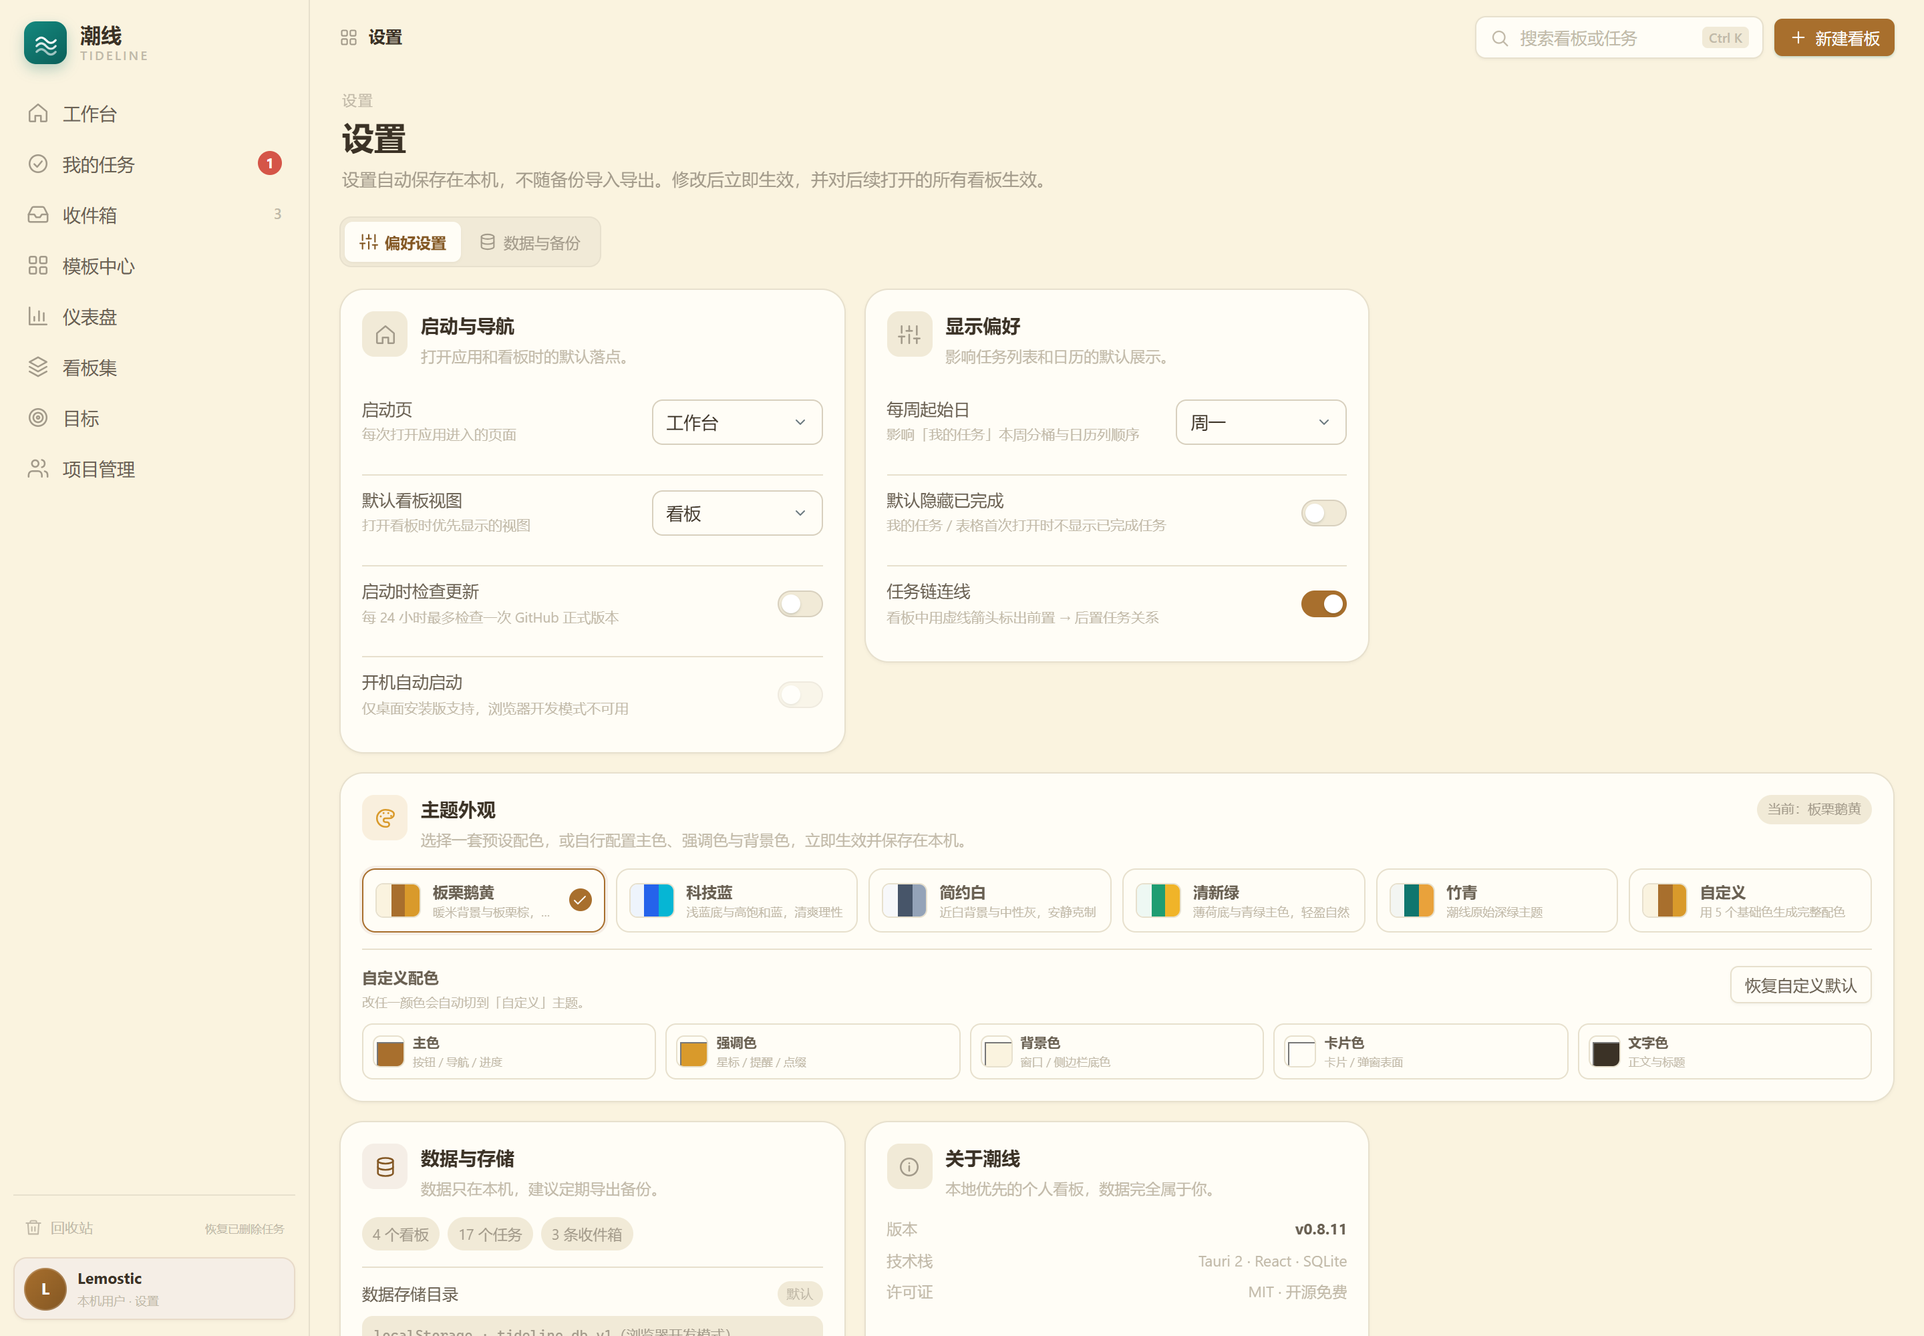
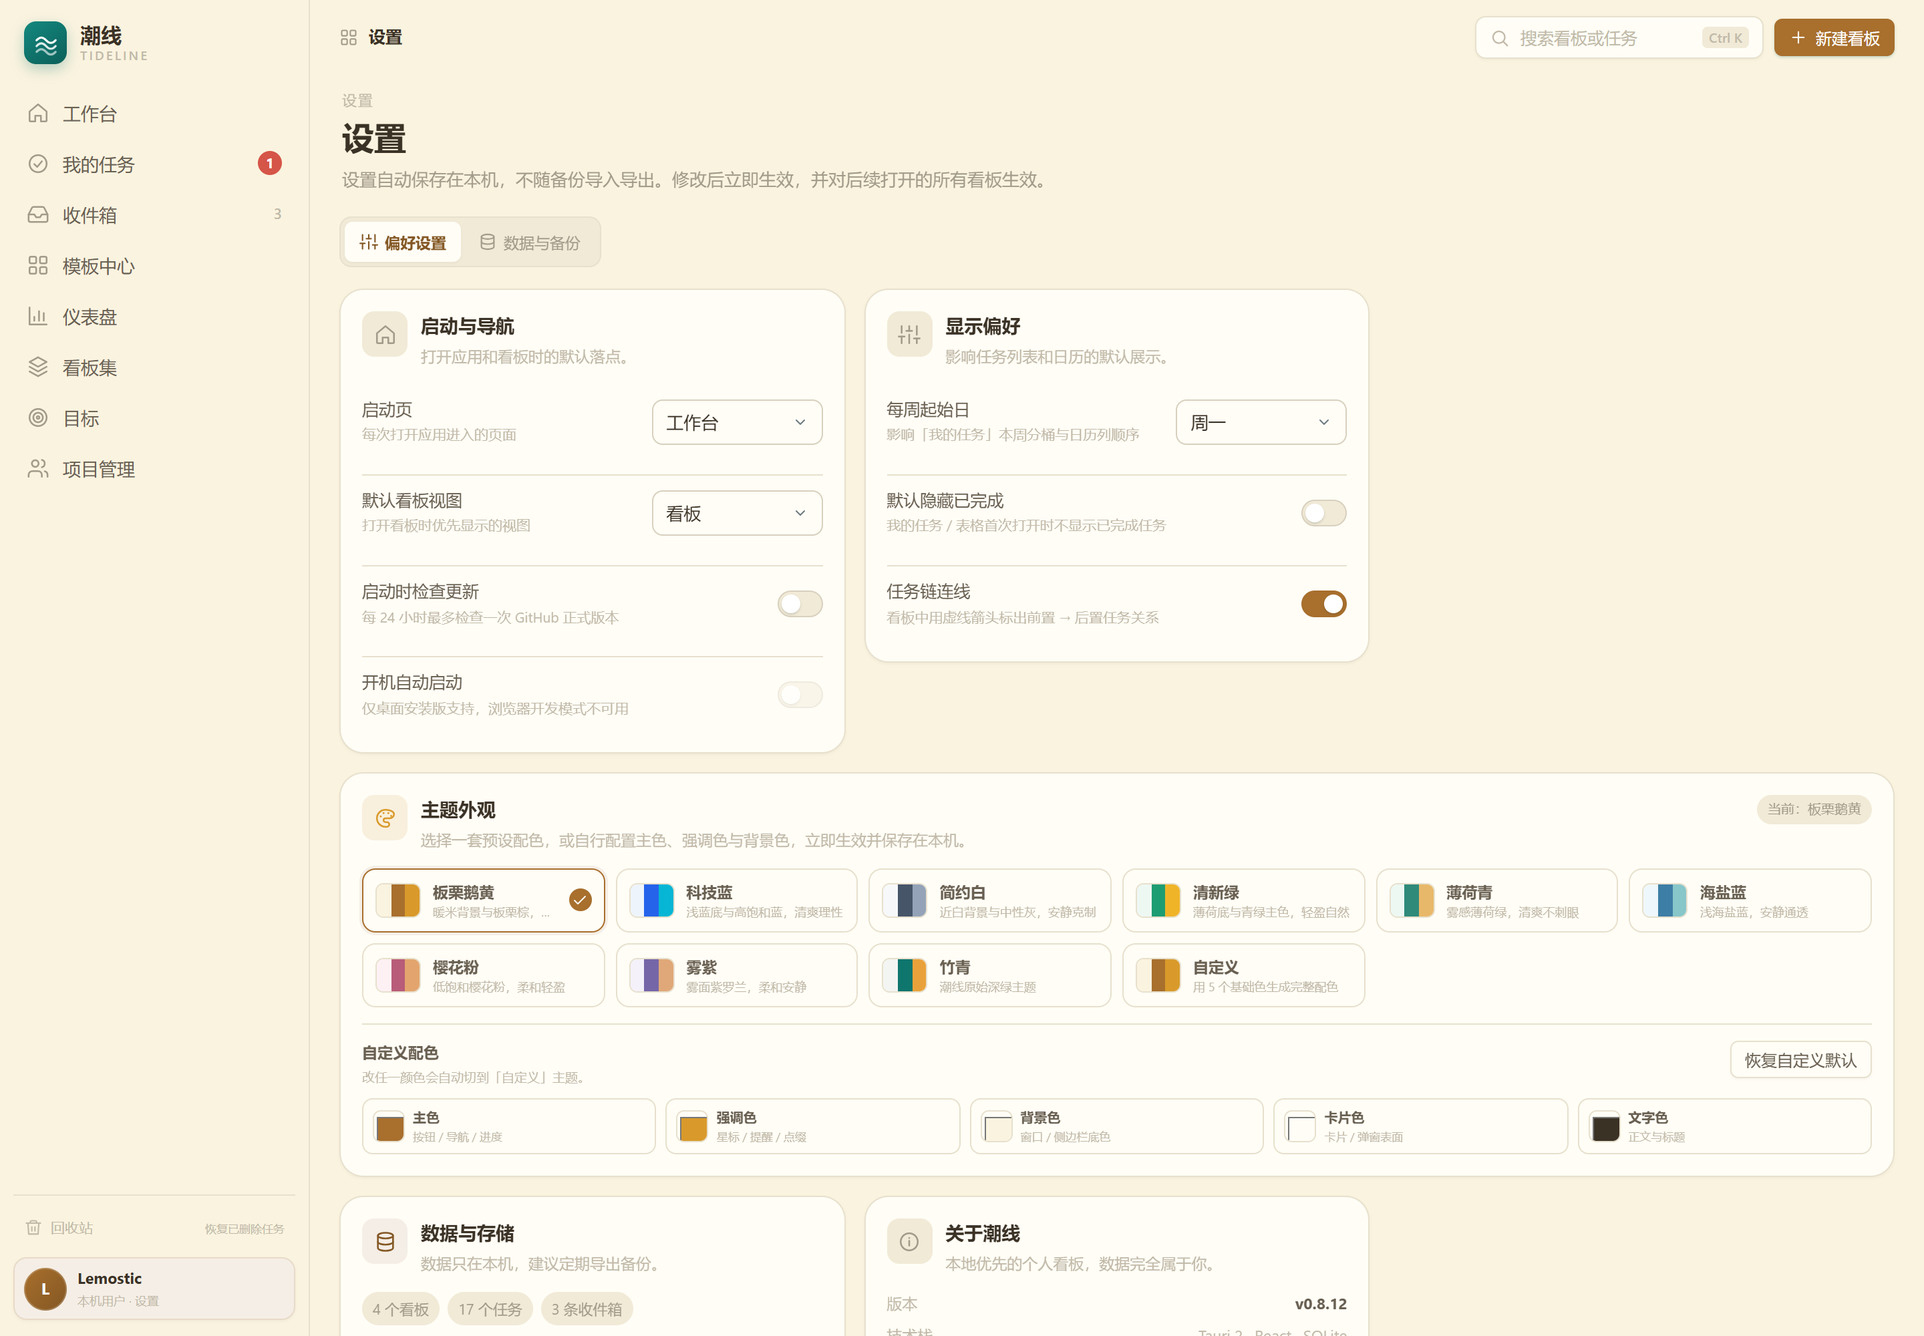
feat: V0.8.12 新增四套清新亮色主题
- 新增薄荷青、海盐蓝、樱花粉、雾紫四套低饱和亮色主题
- 内置主题从 5 套扩展至 9 套，全部由基础色自动派生柔和色/描边/阴影
- 主题面板自适应 9 套预设 + 自定义，保持即时切换与本地持久化
- 更新主题单元测试与 E2E，README/开发计划/五版本规划/截图
- 安装包验证 0.8.11 自定义路径升级、0.8.12 全新安装/启动/卸载

diff --git a/src/lib/theme.ts b/src/lib/theme.ts
@@ -6,7 +6,17 @@
  * 避免用户配置几十个令牌。
  */
 
-export type ThemeId = 'pine' | 'chestnut' | 'tech' | 'minimal' | 'fresh' | 'custom';
+export type ThemeId =
+  | 'pine'
+  | 'chestnut'
+  | 'tech'
+  | 'minimal'
+  | 'fresh'
+  | 'mint'
+  | 'seasalt'
+  | 'sakura'
+  | 'lavender'
+  | 'custom';
 
 export interface ThemeBaseColors {
   primary: string;
@@ -70,6 +80,54 @@ export const THEME_PRESETS: ThemePreset[] = [
       background: '#eef8f3',
       surface: '#ffffff',
       text: '#163a2c',
+    },
+  },
+  {
+    id: 'mint',
+    name: '薄荷青',
+    description: '雾感薄荷绿，清爽不刺眼',
+    colors: {
+      primary: '#2f8a7a',
+      accent: '#e8b86a',
+      background: '#edf8f3',
+      surface: '#ffffff',
+      text: '#1e3834',
+    },
+  },
+  {
+    id: 'seasalt',
+    name: '海盐蓝',
+    description: '浅海盐蓝，安静通透',
+    colors: {
+      primary: '#3d7ea6',
+      accent: '#87c6c9',
+      background: '#eef7fb',
+      surface: '#ffffff',
+      text: '#1b3440',
+    },
+  },
+  {
+    id: 'sakura',
+    name: '樱花粉',
+    description: '低饱和樱花粉，柔和轻盈',
+    colors: {
+      primary: '#b85c79',
+      accent: '#e3a56d',
+      background: '#fdf1f4',
+      surface: '#fffdfd',
+      text: '#3d2a31',
+    },
+  },
+  {
+    id: 'lavender',
+    name: '雾紫',
+    description: '雾面紫罗兰，柔和安静',
+    colors: {
+      primary: '#7566a8',
+      accent: '#e0a878',
+      background: '#f4f1fa',
+      surface: '#ffffff',
+      text: '#2b273b',
     },
   },
   {

diff --git a/src/lib/theme.test.ts b/src/lib/theme.test.ts
@@ -9,16 +9,21 @@ import {
 } from '@/lib/theme';
 
 describe('theme helpers', () => {
-  it('提供五套内置主题并默认板栗鹅黄', () => {
+  it('提供九套内置主题并默认板栗鹅黄', () => {
     expect(THEME_PRESETS.map((preset) => preset.name)).toEqual([
       '板栗鹅黄',
       '科技蓝',
       '简约白',
       '清新绿',
+      '薄荷青',
+      '海盐蓝',
+      '樱花粉',
+      '雾紫',
       '竹青',
     ]);
     expect(normalizeThemeId(undefined)).toBe('chestnut');
     expect(normalizeThemeId('tech')).toBe('tech');
+    expect(normalizeThemeId('mint')).toBe('mint');
     expect(normalizeThemeId('unknown')).toBe('chestnut');
   });
 

diff --git a/README.md b/README.md
@@ -26,7 +26,7 @@
 - **日历视图** —— 6×7 月历，按截止日期归格，今天高亮、周末底色、跨月淡化、「+N 更多」展开、显示已完成；支持把任务拖到别的日期改期
 - **回收站** —— 删除任务先软删除进回收站，可恢复回原看板/列表，或彻底删除 / 一键清空
 - **数据备份（设置内）** —— 设置页「数据与备份」标签：把全部看板、列表、任务（含回收站与任务依赖）、看板集、目标、收件箱、多项目投入记录导出为 JSON；从备份整体恢复前先校验文件结构/引用关系，单事务替换、失败回滚；桌面端写入「文档」目录；旧 `/data` 链接自动重定向
-- **主题外观** —— 内置板栗鹅黄、科技蓝、简约白、清新绿、竹青五套主题；一键切换立即生效并持久化；支持自定义主色/强调色/背景色/卡片色/文字色，自动派生完整设计令牌（默认板栗鹅黄）
+- **主题外观** —— 内置板栗鹅黄、科技蓝、简约白、清新绿、薄荷青、海盐蓝、樱花粉、雾紫、竹青九套主题；一键切换立即生效并持久化；支持自定义主色/强调色/背景色/卡片色/文字色，自动派生完整设计令牌（默认板栗鹅黄）
 - **设置管理** —— **左下角 Profile 卡片（头像 + 用户名）**打开设置，不再占用左侧菜单；全局偏好页：启动页、默认看板视图、每周起始日、默认隐藏已完成、**任务链连线开关**；**桌面端支持自定义数据存储目录**（原生文件夹选择、数据库自动迁移、可恢复默认）；数据备份并入设置页；偏好保存在本机 localStorage，数据目录配置写入 `storage.json`，即时生效，可一键恢复默认
 - **我的任务** —— 按「已逾期 / 今天到期 / 本周到期 / 稍后到期 / 无截止日期」自动分组，逾期红色计数，支持看板筛选、排序、隐藏已完成；**五列等宽自适应**，2K 下与看板泳道同宽（约 445px）
 - **收件箱** —— 快速记录想法（`Ctrl/Cmd + Enter`），一键转为指定看板的任务
@@ -37,7 +37,7 @@
 - **更新检查** —— 设置页可手动检查 GitHub 正式 Release，显示新版本、发布日期与说明，并一键打开发布页；可开启「启动时检查更新」（每 24 小时最多一次），发现新版本时顶栏显示提醒。**安装包签名完成前不静默下载安装**，始终由用户从发布页手动安装
 - **开机自动启动** —— 设置页可开启/关闭「开机自动启动」；桌面端写入当前用户 `HKCU\...\Run` 注册表，登录 Windows 后自动打开潮线，浏览器开发模式显示为不可用
 
-> 目标模块已完成；V0.4（任务依赖 / 备份 / 批量操作）、V0.5（仪表盘 / 看板集）、V0.6（目标 / 更新检查）、V0.7（看板个性化 / 工作台 / 双视图 / 开机启动）、V0.8.0（项目组资源）、V0.8.1（多项目 / 自定义角色 / 元数据）、V0.8.2（任务详情居中弹窗）、V0.8.3（多段投入记录）、V0.8.4（设置入口迁移 / 备份并入设置）、V0.8.5（主题系统）、V0.8.6（项目管理布局与命名）、V0.8.7（左下角 Profile 设置入口）、V0.8.8（任务详情紧凑表单）、V0.8.9（回收站降级为工具入口）、V0.8.10（移除冗余状态与按钮）、V0.8.11（甘特视图增强）均已交付。
+> 目标模块已完成；V0.4（任务依赖 / 备份 / 批量操作）、V0.5（仪表盘 / 看板集）、V0.6（目标 / 更新检查）、V0.7（看板个性化 / 工作台 / 双视图 / 开机启动）、V0.8.0（项目组资源）、V0.8.1（多项目 / 自定义角色 / 元数据）、V0.8.2（任务详情居中弹窗）、V0.8.3（多段投入记录）、V0.8.4（设置入口迁移 / 备份并入设置）、V0.8.5（主题系统）、V0.8.6（项目管理布局与命名）、V0.8.7（左下角 Profile 设置入口）、V0.8.8（任务详情紧凑表单）、V0.8.9（回收站降级为工具入口）、V0.8.10（移除冗余状态与按钮）、V0.8.11（甘特视图增强）、V0.8.12（新增四套清新亮色主题）均已交付。
 
 ### 界面预览
 
@@ -145,7 +145,7 @@
 
 ### 方式一：安装包（推荐）
 
-下载 `release/tideline-0.8.11-win64-setup.exe`，双击按向导安装即可（安装向导为简体中文）。
+下载 `release/tideline-0.8.12-win64-setup.exe`，双击按向导安装即可（安装向导为简体中文）。
 默认安装目录为 **`%LOCALAPPDATA%\Programs\Tideline`**（通常即 `C:\Users\<用户名>\AppData\Local\Programs\Tideline`；程序文件不再放进 Roaming 漫游目录），安装时仍可自选其它目录；
 **如果检测到旧版本，会自动带出旧版本的安装路径并默认覆盖安装，无需手动卸载旧版本**，升级后本地数据保持不变。
 安装器会创建开始菜单与桌面快捷方式，卸载可在「设置 → 应用」中完成。
@@ -158,7 +158,7 @@
 pnpm install
 pnpm tauri dev          # 桌面端开发模式
 pnpm tauri build --bundles nsis   # 打 NSIS 安装包
-# 产物：src-tauri/target/release/bundle/nsis/tideline_0.8.11_x64-setup.exe
+# 产物：src-tauri/target/release/bundle/nsis/tideline_0.8.12_x64-setup.exe
 ```
 
 浏览器里调试 UI（数据写 localStorage，与桌面端共用页面代码）：
@@ -229,7 +229,7 @@ pnpm tauri build --bundles nsis   # Windows NSIS 安装包
 | V0.1（已完成） | 看板 / 我的任务 / 收件箱 / 模板中心 / 本地 SQLite |
 | V0.2（已完成） | 任务抽屉增强（子任务/标签/Markdown/起止日期）、表格视图、甘特视图、旧库自动迁移 |
 | **V0.3 / V0.3.1 / V0.3.2 / V0.3.3 / V0.3.4 / V0.3.5 / V0.3.6 / V0.3.7 / V0.3.8 / V0.4.0（已完成）** | 日历视图、看板内筛选器、任务回收站、NSIS 安装包、v3 数据库迁移；持续补丁优化卡片/拖拽/弹窗/表格层级、安装路径、桌面端拖拽、宽屏列宽与各菜单主体铺满 |
-| **V0.4.1 / V0.4.2 / V0.5.0 / V0.5.1 / V0.5.2 / V0.5.3 / V0.5.4 / V0.5.5 / V0.6.0 / V0.6.1 / V0.7.0 / V0.7.1 / V0.7.2 / V0.7.3 / V0.8.0 / V0.8.1 / V0.8.2 / V0.8.3 / V0.8.4 / V0.8.5 / V0.8.6 / V0.8.7 / V0.8.8 / V0.8.9 / V0.8.10 / V0.8.11（当前）** | V0.4 收尾：任务依赖、看板内批量操作；设置管理（启动页 / 默认视图 / 每周起始日 / 默认隐藏已完成 / 自定义数据目录 / 任务链连线）；V0.5 仪表盘与看板集；V0.5.5 中文安装向导与旧路径自动沿用；V0.6.0 目标树与进度回写；V0.6.1 更新检查与顶栏提醒；V0.7.0 卡片颜色、列表颜色/WIP、安装器注册表安装目录；V0.7.1 工作台门户与依赖箭头方向；V0.7.2 工作台/看板卡片列表视图切换；V0.7.3 开机自动启动；V0.8.0 项目组资源与绩效；V0.8.1 多项目、自定义角色与项目元数据；V0.8.2 任务详情居中弹窗（4:3、独立滚动）；V0.8.3 多段投入记录与项目投入统计；V0.8.4 设置入口移至左下角齿轮，数据备份并入设置；V0.8.5 主题外观与自定义配色；V0.8.6 项目管理列表布局与菜单改名；V0.8.7 左下角 Profile 入口；V0.8.8 任务详情紧凑表单；V0.8.9 回收站移至侧边栏底部工具区；V0.8.10 移除冗余本机状态与按钮；V0.8.11 甘特进度/依赖/工期 |
+| **V0.4.1 / V0.4.2 / V0.5.0 / V0.5.1 / V0.5.2 / V0.5.3 / V0.5.4 / V0.5.5 / V0.6.0 / V0.6.1 / V0.7.0 / V0.7.1 / V0.7.2 / V0.7.3 / V0.8.0 / V0.8.1 / V0.8.2 / V0.8.3 / V0.8.4 / V0.8.5 / V0.8.6 / V0.8.7 / V0.8.8 / V0.8.9 / V0.8.10 / V0.8.11 / V0.8.12（当前）** | V0.4 收尾：任务依赖、看板内批量操作；设置管理（启动页 / 默认视图 / 每周起始日 / 默认隐藏已完成 / 自定义数据目录 / 任务链连线）；V0.5 仪表盘与看板集；V0.5.5 中文安装向导与旧路径自动沿用；V0.6.0 目标树与进度回写；V0.6.1 更新检查与顶栏提醒；V0.7.0 卡片颜色、列表颜色/WIP、安装器注册表安装目录；V0.7.1 工作台门户与依赖箭头方向；V0.7.2 工作台/看板卡片列表视图切换；V0.7.3 开机自动启动；V0.8.0 项目组资源与绩效；V0.8.1 多项目、自定义角色与项目元数据；V0.8.2 任务详情居中弹窗（4:3、独立滚动）；V0.8.3 多段投入记录与项目投入统计；V0.8.4 设置入口移至左下角齿轮，数据备份并入设置；V0.8.5 主题外观与自定义配色；V0.8.6 项目管理列表布局与菜单改名；V0.8.7 左下角 Profile 入口；V0.8.8 任务详情紧凑表单；V0.8.9 回收站移至侧边栏底部工具区；V0.8.10 移除冗余本机状态与按钮；V0.8.11 甘特进度/依赖/工期；V0.8.12 新增薄荷青/海盐蓝/樱花粉/雾紫主题 |
 | V0.4（已完成） | 任务依赖、JSON 导入/导出与备份入口、看板内批量操作 |
 | V0.5（已完成） | 仪表盘统计、看板集（多板汇总表） |
 | V0.6（已完成） | 目标、更新检查；静默自动安装与代码签名待证书 |
@@ -255,13 +255,14 @@ pnpm tauri build --bundles nsis   # Windows NSIS 安装包
 
 | 版本 | 变更 |
 | --- | --- |
+| V0.8.12 | 新增薄荷青、海盐蓝、樱花粉、雾紫四套低饱和清新亮色主题；内置主题由 5 套扩展至 9 套，全部自动派生柔和色、描边与阴影，切换即时生效并本地持久化 |
 | V0.8.11 | 甘特视图增强：任务条按子任务/完成状态显示进度与百分比；任务列显示起止日期、工期与逾期高亮；周视图日期头补星期；依赖任务之间绘制虚线曲线箭头，并跟随「任务链连线」设置 |
 | V0.8.10 | 清理冗余状态提示：移除左下角「数据保存在本机」与版本号、Profile 右侧齿轮按钮、顶栏「仅本机」胶囊；本机存储由产品默认承担，不再重复提示 |
 | V0.8.9 | 回收站从主业务导航移出，降级到侧边栏底部工具区（Profile 上方），弱化为「恢复已删除任务」入口；主业务导航只保留高频模块，路由与恢复能力不变 |
 | V0.8.8 | 任务详情元数据改为 3 列 x 2 行紧凑表单：列表、状态、优先级、开始/截止日期、卡片颜色一屏排布；创建/更新时间移到标题下方小字；弹窗宽度提升到 1320px，打开时不再出现纵向滚动条，任务正文成为主体区域 |
 | V0.8.7 | 左下角设置入口改为 Profile 卡片：头像、用户名、本机身份与设置图标；点击直接进入设置，支持 Ctrl+, 快捷键；移除顶栏重复头像，底部更接近桌面 Profile 设计 |
 | V0.8.6 | 左侧「项目组」更名为「项目管理」；项目空间改为全宽项目列表：名称/描述/元数据与成员、加班、更新时间、操作区分区展示，宽屏不再挤在左上角，窄屏自动折行 |
-| V0.8.5 | 新增主题系统：内置板栗鹅黄、科技蓝、简约白、清新绿、竹青五套主题，默认板栗鹅黄；支持自定义主色、强调色、背景、卡片与文字颜色，自动派生柔和色/描边/阴影并立即生效；首屏提前应用主题避免闪烁，设置本地持久化 |
+| V0.8.5 | 新增主题系统：内置板栗鹅黄、科技蓝、简约白、清新绿、薄荷青、海盐蓝、樱花粉、雾紫、竹青九套主题，默认板栗鹅黄；支持自定义主色、强调色、背景、卡片与文字颜色，自动派生柔和色/描边/阴影并立即生效；首屏提前应用主题避免闪烁，设置本地持久化 |
 | V0.8.4 | 设置入口从左侧菜单移除，改为左下角齿轮按钮；数据备份迁移到设置页「数据与备份」标签，旧 `/data` 链接自动重定向；左侧菜单更精简 |
 | V0.8.3 | 成员投入改为多时间段：每次入组/出组独立成段，释放/回归自动续段，可手动补录、编辑、删除历史段；项目「投入记录」按成员汇总累计人天、段数、当前在组与区间筛选；schema v10，旧成员自动补首段，备份恢复包含全部时间段 |
 | V0.8.2 | 任务详情从右侧抽屉改为居中弹窗：固定 4:3 比例、宽高自适应视口、头部/页脚固定、内容区独立滚动，长表单不会被压扁；小窗口保持比例并内部滚动 |

diff --git a/docs/开发计划.md b/docs/开发计划.md
@@ -119,6 +119,7 @@ V0.2 验收（已完成）：
 | V0.8.9 功能 | 回收站从主业务导航移出，降到侧边栏底部工具区（Profile 上方），弱化为「恢复已删除任务」入口；主业务导航只保留高频模块，路由与恢复能力不变 |
 | V0.8.10 功能 | 清理冗余状态：移除侧边栏底部「数据保存在本机」与版本号、Profile 右侧齿轮、顶栏「仅本机」胶囊；数据本地保存属性由产品默认承担，不再重复提示 |
 | V0.8.11 功能 | 甘特视图增强：任务条按子任务/完成状态显示进度与百分比；任务列显示起止日期与工期、逾期高亮；周视图日期头补星期；依赖任务绘制虚线贝塞尔箭头；联动「任务链连线」设置 |
+| V0.8.12 功能 | 新增四套低饱和清新亮色主题：薄荷青、海盐蓝、樱花粉、雾紫；内置主题从 5 套扩展至 9 套，全部走同一套基础色派生令牌 |
 
 V0.3 验收（已完成）：
 
@@ -308,6 +309,13 @@ V0.8.11 甘特增强验收（已完成）：
 - [x] 周视图日期头显示星期，今日线/今日胶囊正常
 - [x] 依赖任务之间绘制虚线曲线箭头，设置关闭后隐藏
 - [x] 周/日缩放与拖动改期保持可用
+
+V0.8.12 清新主题验收（已完成）：
+
+- [x] 主题面板展示 9 套预设 + 自定义
+- [x] 薄荷青/海盐蓝/樱花粉/雾紫可即时切换
+- [x] 新主题背景、卡片、描边、阴影自动派生
+- [x] 主题选择刷新后保持，设置页截图更新
 
 ---
 

diff --git a/docs/五个版本规划.md b/docs/五个版本规划.md
@@ -47,6 +47,7 @@
 - 周末加班：按日期、成员、时长排班；可标记「已发生」；月度小时汇总
 - 绩效加减分：交付/质量/协作维度，加分正数、减分负数；按成员月度排名与净分
 - 成员多段投入记录：入组/出组历史独立时间段、可编辑补录、项目维度累计人天统计（V0.8.3）
+- 新增薄荷青/海盐蓝/樱花粉/雾紫四套清新亮色主题（V0.8.12）
 - 甘特进度/依赖箭头/工期信息增强（V0.8.11）
 - 清理冗余本机状态/仅本机/版本号/齿轮（V0.8.10）
 - 回收站降级为侧边栏底部工具入口（V0.8.9）
